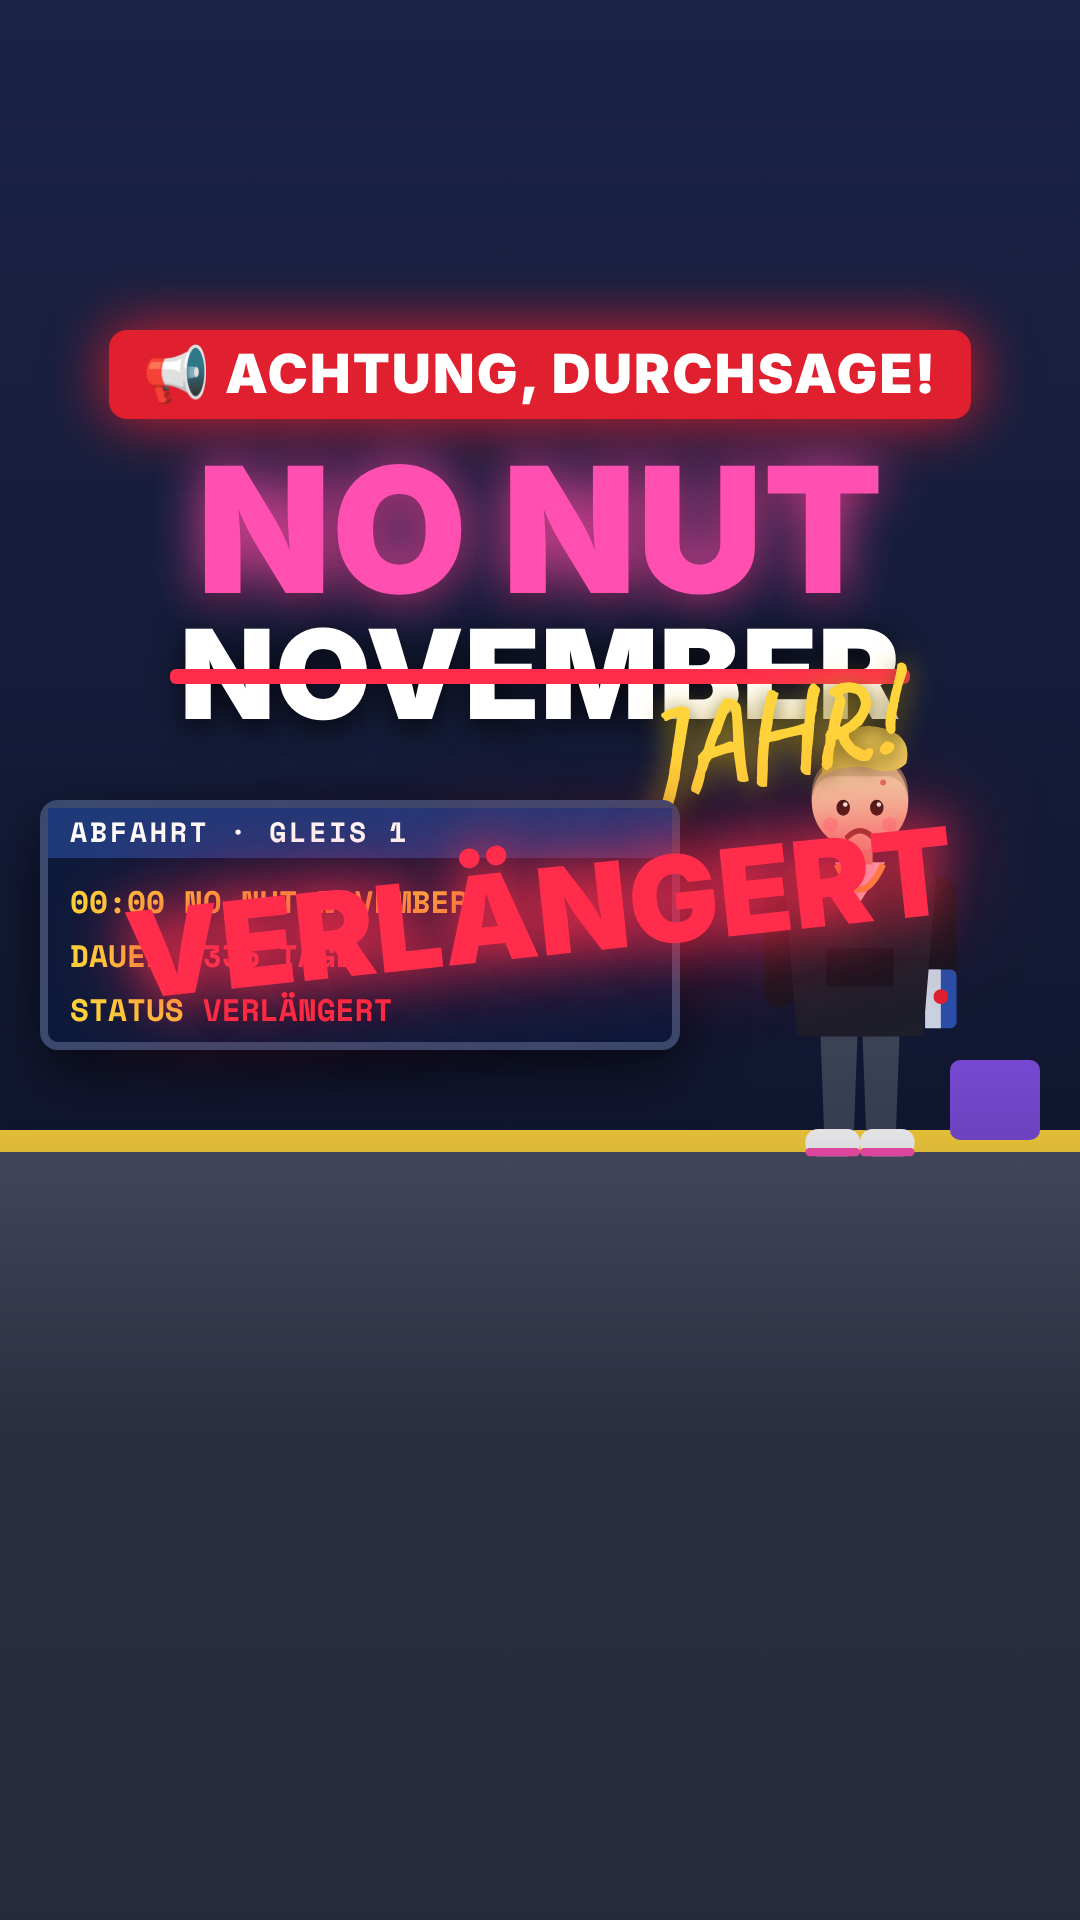
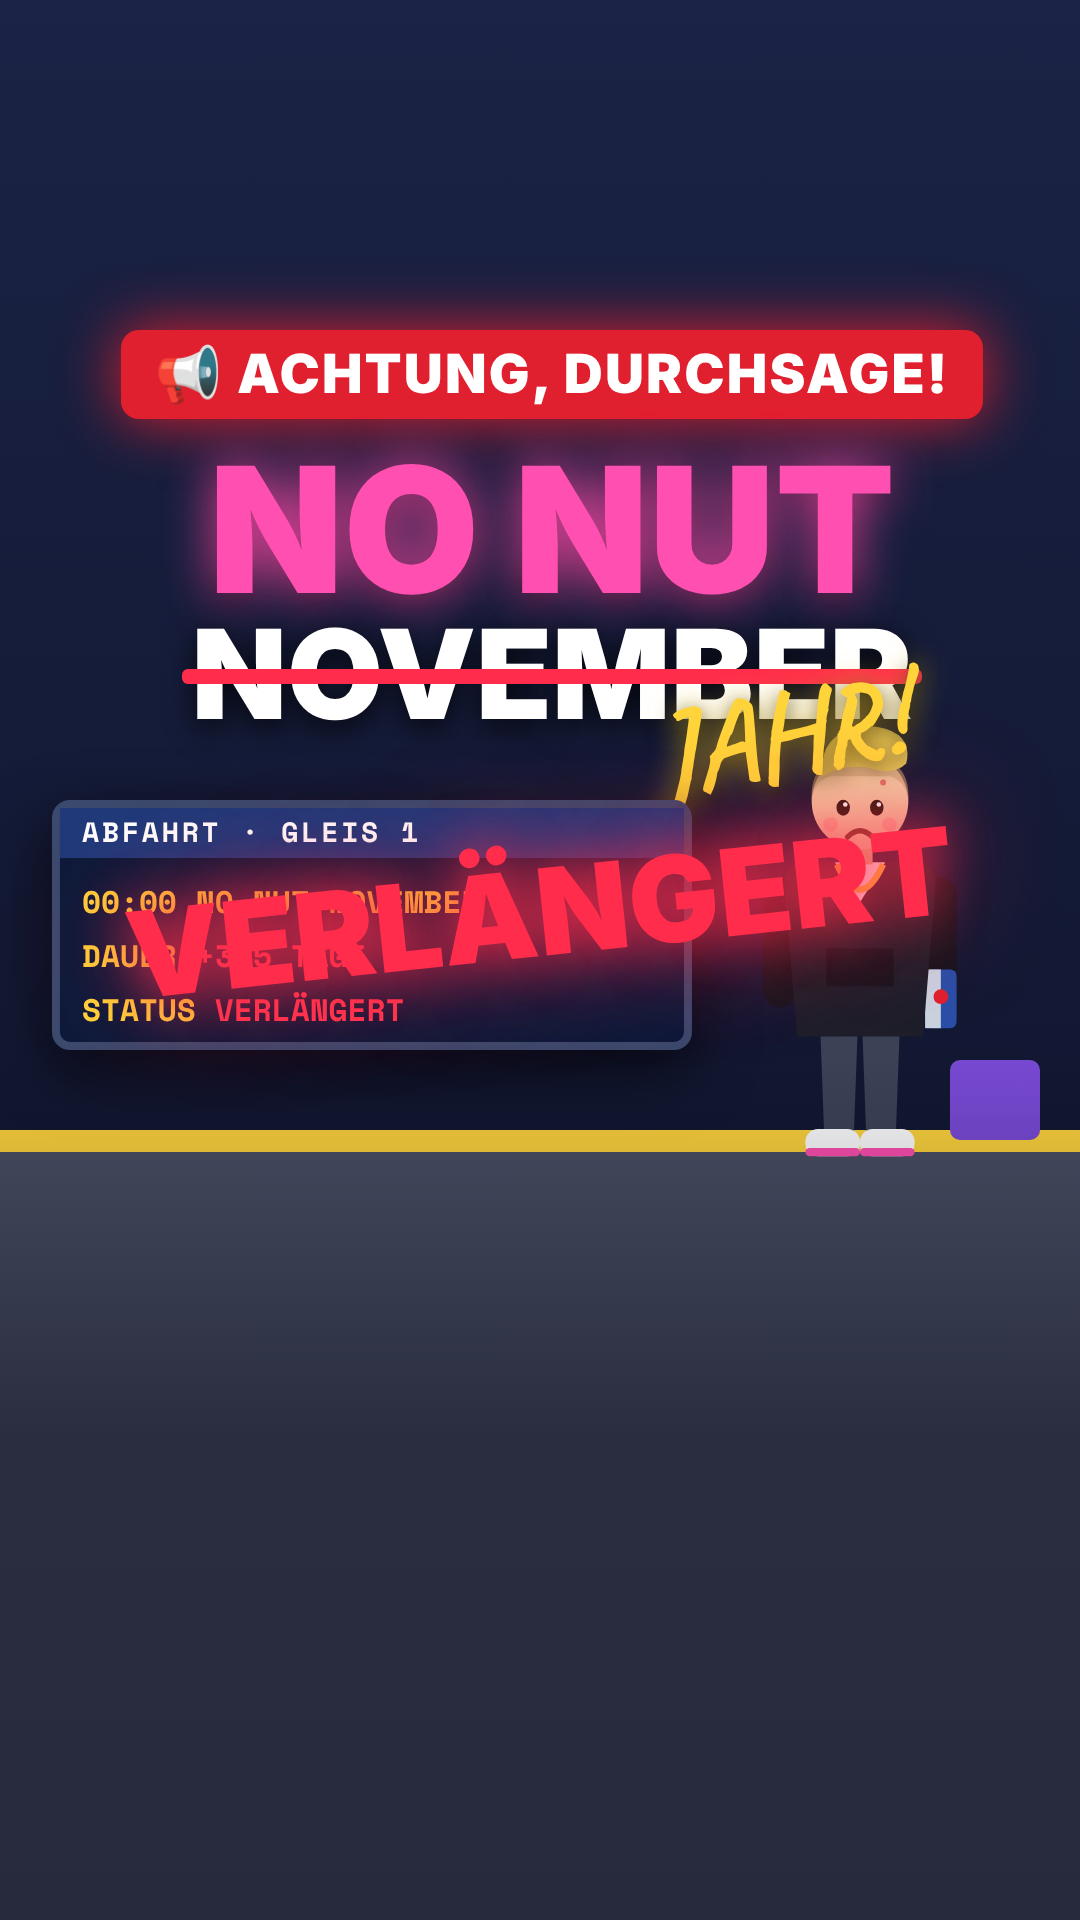
NNN ein Jahr: Cover und Beschreibung für heute Abend
Claude-Session: https://claude.ai/code/session_01McNdgXtFA3X1Q1fLpDn8nE

Changed region(s): [[0.0917, 0.1562, 0.9167, 0.5625], [0.0306, 0.4062, 0.3667, 0.5625], [0.2444, 0.4062, 0.4278, 0.5]]

diff --git a/videos/nnn-ein-jahr/BESCHREIBUNG.md b/videos/nnn-ein-jahr/BESCHREIBUNG.md
@@ -1,7 +1,7 @@
 # Beschreibung – Was wäre, wenn der No Nut November ein ganzes Jahr dauert?
 
 ## Hauptversion (empfohlen)
-Achtung, Durchsage: Der No Nut November wurde VERLÄNGERT 📢 Georg, 18: 365 Tage kein Kronjuwelen-Katapult – Snapchat gelöscht, Strand bei 34 Grad, Festival-Security fragt nach dem Klo 😳 … und am Ende bebt die Erde. Wortwörtlich 🌋 Würdest du ein Jahr aushalten? Wenn nicht: wie lange? 👇
+Achtung, Durchsage: Der No Nut November wurde VERLÄNGERT 📢 Georg, 18: 365 Tage kein Kronjuwelen-Katapult – Snapchat gelöscht, Strand bei 34 Grad, Festival-Security fragt nach dem Klo 😳 … und am Ende bebt die Erde. Wortwörtlich 🌋 Würdest du ein Jahr aushalten? Wenn nicht: wie lange? 👇 Folg mir, wenn du bisher standhaft geblieben bist 💪
 #nonutnovember #nnn #waswärewenn #storytime #fyp
 
 ## Alternative 1 (Erdbeben-Hook)
@@ -25,10 +25,15 @@ Ehrliche Umfrage 👀 Würdest du 1 JAHR aushalten? ✅ JA, 365 TAGE oder ❌ NE
 - „Stärke 9,0 war noch untertrieben 🌋“
 
 ## Posting-Tipps
-- Jetzt im November posten, ideal 17–20 Uhr; als Serie mit Finn und „Alle Männer“ gegenseitig verlinken.
+- Heute Abend posten (1.11., Tag 1 des echten NNN), ideal 18:30–20:00 Uhr – dann scrollen die meisten Jugendlichen; als Serie mit Finn und „Alle Männer“ gegenseitig verlinken.
 - Cover: `renders/cover.jpg` (ACHTUNG, DURCHSAGE + rot leuchtendes VERLÄNGERT; Text liegt unterhalb der TikTok-Suchleiste).
 - Trend-Sound leise darunter (10–20 %); Bahnhofs-Gong ist schon drin.
 - Umfrage-Kommentar sofort anpinnen; Antworten mit Tagesangaben liken.
 
 ---
 Humorvolles Gedankenexperiment. Fakt: Selbstbefriedigung gilt medizinisch als normal und gesund.
+
+## Extra-Tipps für heute Abend
+- In der ersten Stunde jeden Kommentar mit Tagesangabe beantworten (z. B. „Tag 1 von 365? Respekt 😤“) – das pusht die Reichweite.
+- 2–3 Std. nach dem Posten eine Story/einen Kommentar „Wer ist noch standhaft? 🙋♂“ nachschieben.
+- Untertitel in TikTok aus lassen (sind schon im Video), damit nichts doppelt ist.
